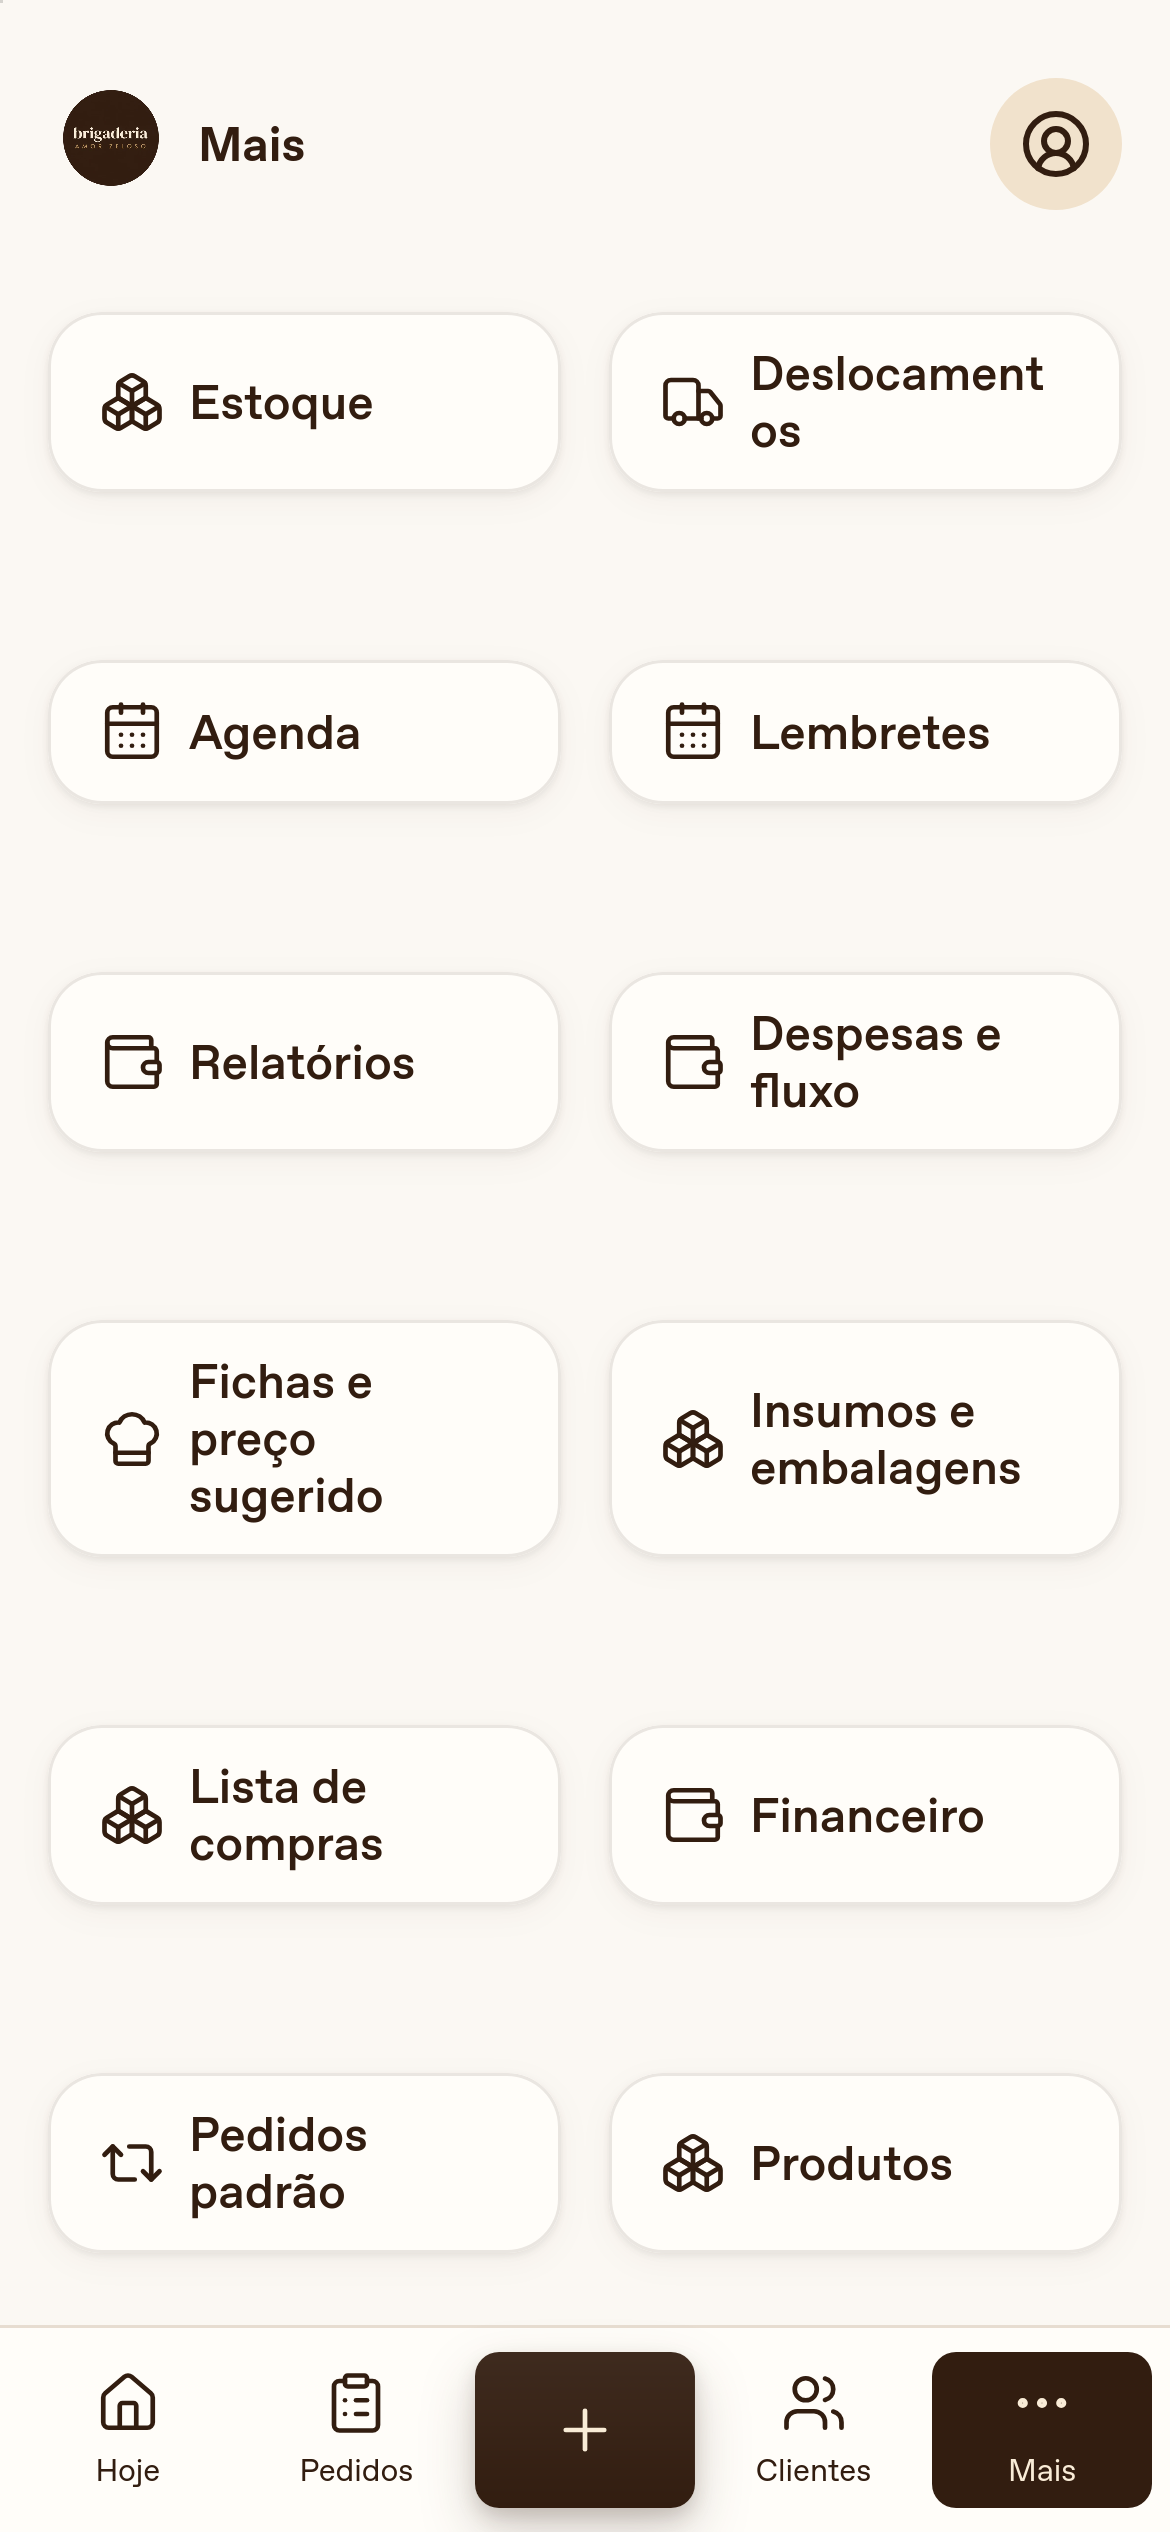
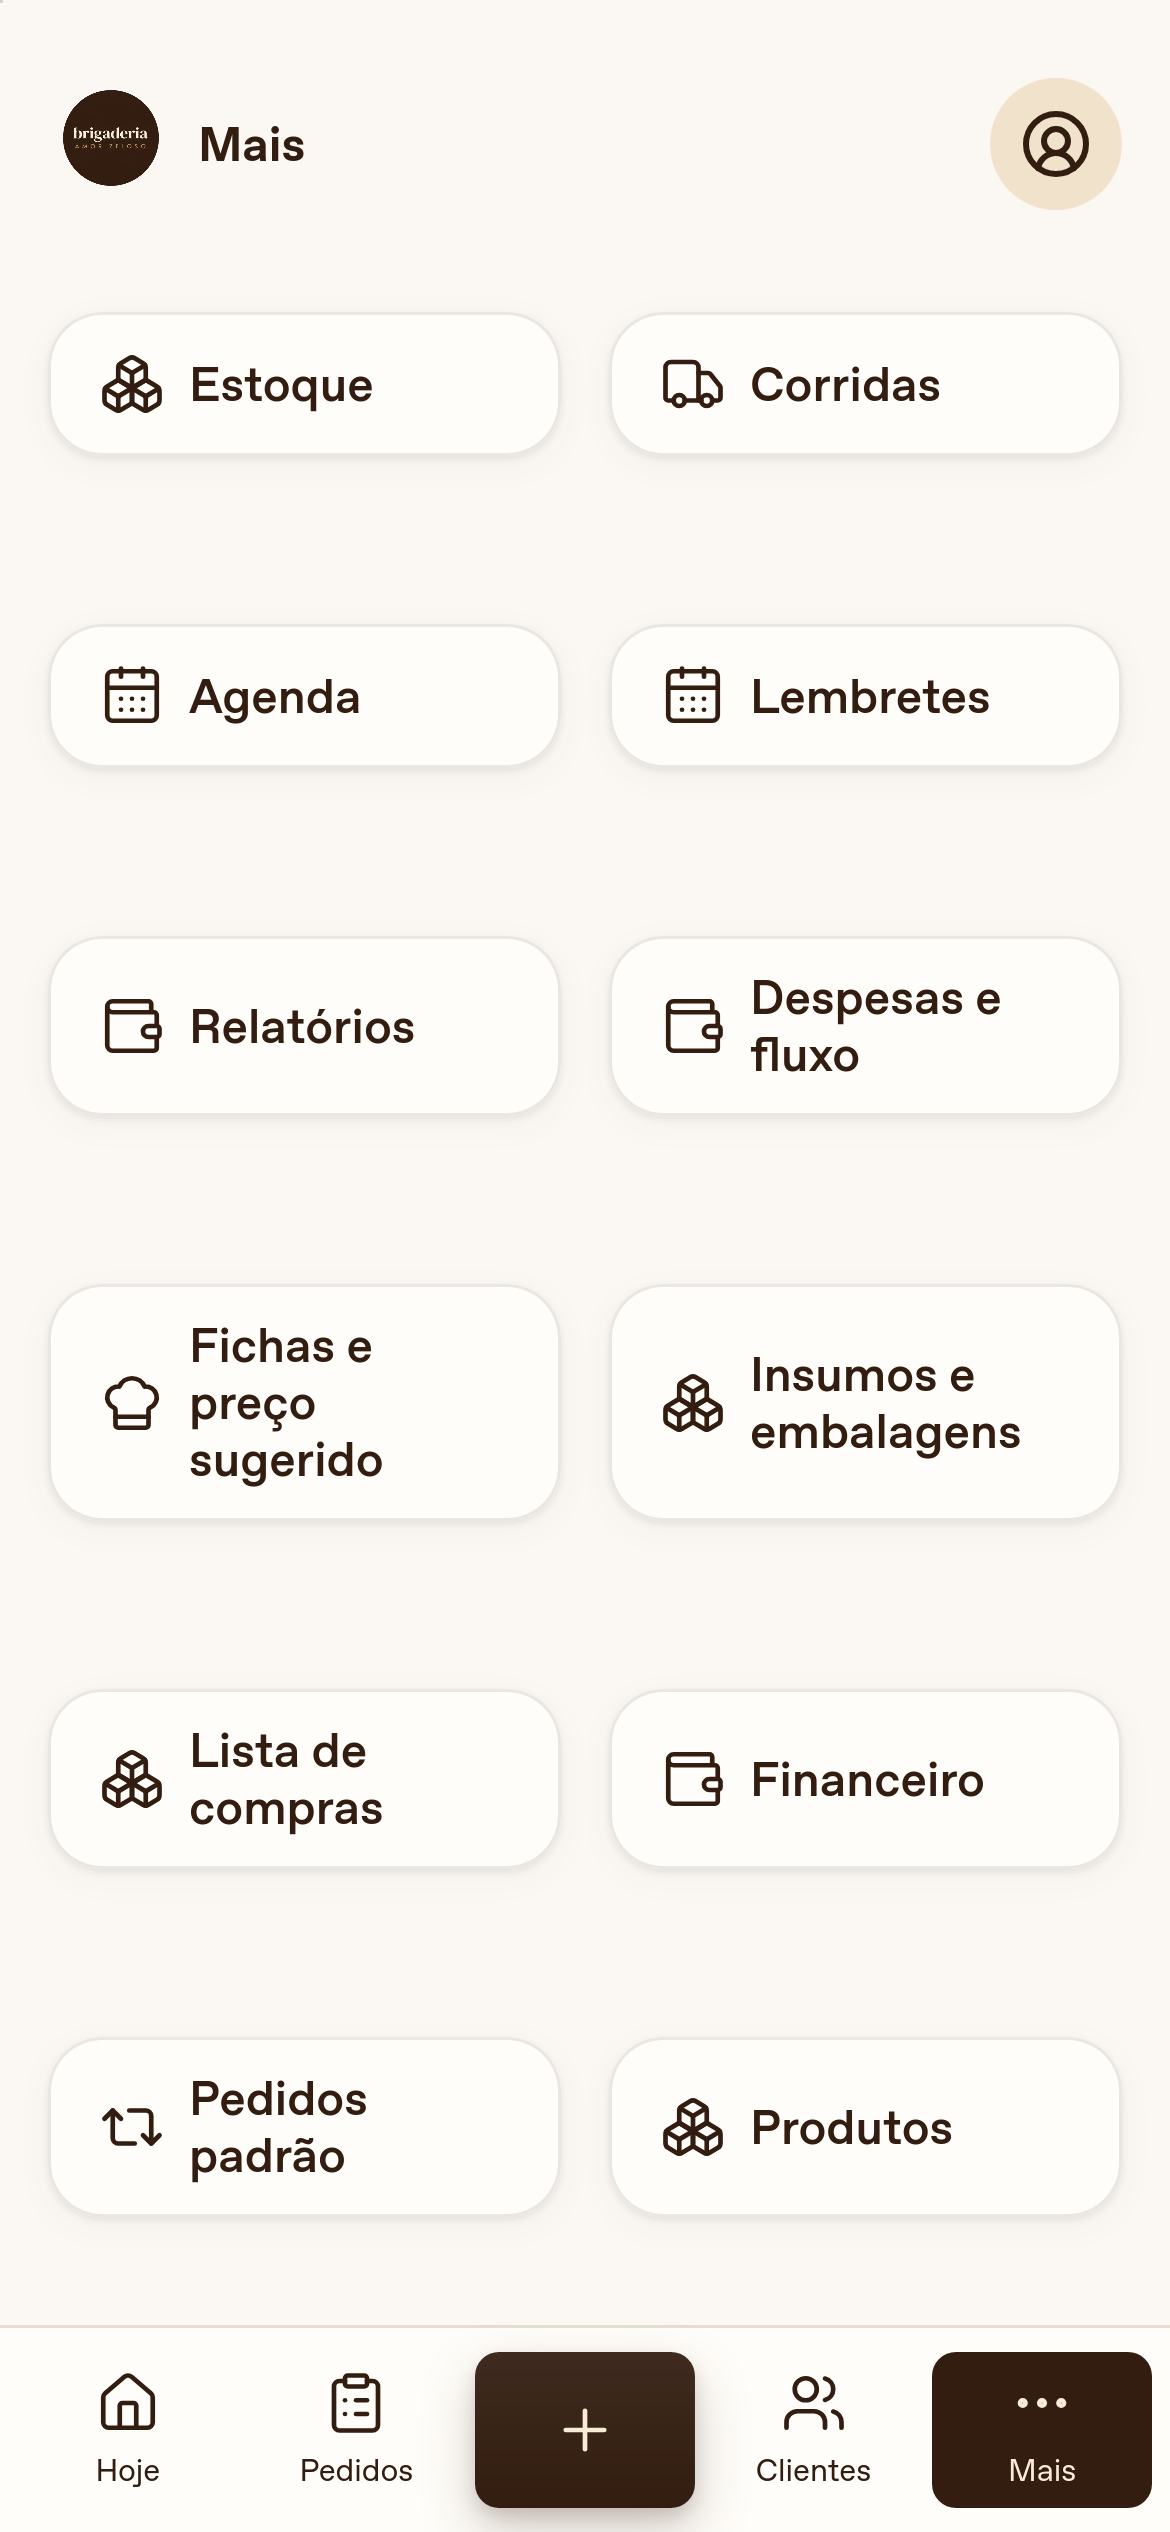
fix: keep More tile labels readable on mobile (R5-7)

diff --git a/tests/e2e/review-r5-flows.spec.js b/tests/e2e/review-r5-flows.spec.js
@@ -111,6 +111,15 @@ test('R5 telas móveis com ações compartilhadas', async ({
             exact: true,
           }),
         ).toBeVisible();
+      if (path === 'mais') {
+        await expect(
+          p.getByRole('link', { name: 'Corridas', exact: true }),
+        ).toBeVisible();
+        for (const tile of await p.locator('.more-link').all())
+          expect(
+            await tile.evaluate((e) => e.scrollWidth <= e.clientWidth),
+          ).toBe(true);
+      }
       if (path === 'financeiro') {
         const kpis = p.locator('.finance-kpi');
         await expect(kpis).toHaveCount(4);

diff --git a/src/features/Management.tsx b/src/features/Management.tsx
@@ -1796,7 +1796,7 @@ function More({
                   : []),
               ]
             : []),
-          ...(field ? [['deslocamentos', 'Deslocamentos', 'entregas']] : []),
+          ...(field ? [['deslocamentos', 'Corridas', 'entregas']] : []),
           ...(p1
             ? [
                 ['agenda', 'Agenda', 'agenda'],

diff --git a/src/styles.css b/src/styles.css
@@ -2060,3 +2060,8 @@ details[open] > .disclosure-summary > .disclosure-chevron {
 .delivery-icon-row .az-button-label {
   white-space: nowrap;
 }
+.more-link {
+  overflow-wrap: normal;
+  word-break: normal;
+  hyphens: auto;
+}

diff --git a/docs/colaboracao/CODEX_PARA_CLAUDE.md b/docs/colaboracao/CODEX_PARA_CLAUDE.md
@@ -119,6 +119,8 @@ Limitação: validação em navegador simulado, aparelho físico pendente.
 
 ## Histórico
 
+- **2026-11-02 — R5-7:** Tile de Deslocamentos renomeado para Corridas, preservando a rota e todas as funcionalidades. Hifenização pt-BR sem quebra arbitrária nos tiles. Build/tipagem e três E2E com verificação de overflow em Mais e captura aprovados. Próximo R5-8.
+
 - **2026-11-02 — R5-6:** ChoiceChips compartilhado aplicado à condição das vendas e aos eventos da agenda (cinco categorias mais Todos). Busca/lista de clientes e exportação com seis formatos preservadas. Build/tipagem/lint e seis E2E de CSV/ICS/relatórios/agenda aprovados. CI dos commits R8-6/7 revelou data quebrando em duas linhas por diferenças de fonte: chip do calendário deixou de reservar check de seleção e ganhou espaçamento explícito, data com largura flexível e WhatsApp sem quebra. Seis E2E de espaço/calendário passaram localmente com limite 200 preservado; nova CI será conferida. Próximo R5-7.
 
 - **2026-11-02 — R5-5:** Financeiro com quatro cartões tocáveis em grade 2×2: recebido hoje, a receber, vencido e vence esta semana. Rótulos pequenos, valores em destaque e navegação/filtros preservados; sem alterar cálculo financeiro. Build/tipagem e três E2E com medida de linhas/larguras e capturas aprovados. Próximo R5-6.
@@ -213,7 +215,7 @@ Arquivos/aceite: Today, DeliveryActions, Button e API Today (R8-1: cartão compa
 | R8-7          | Interface entregue; fotos pessoais dependem de R6-5.                                              |
 | R5-5          | Entregue; testes/limites no histórico.                                                            |
 | R5-6          | Entregue; testes/limites no histórico.                                                            |
-| R5-7          | Pendente.                                                                                         |
+| R5-7          | Entregue; testes/limites no histórico.                                                            |
 | R5-8          | Pendente.                                                                                         |
 | R5-9          | Pendente.                                                                                         |
 | R5-10         | Pendente.                                                                                         |
